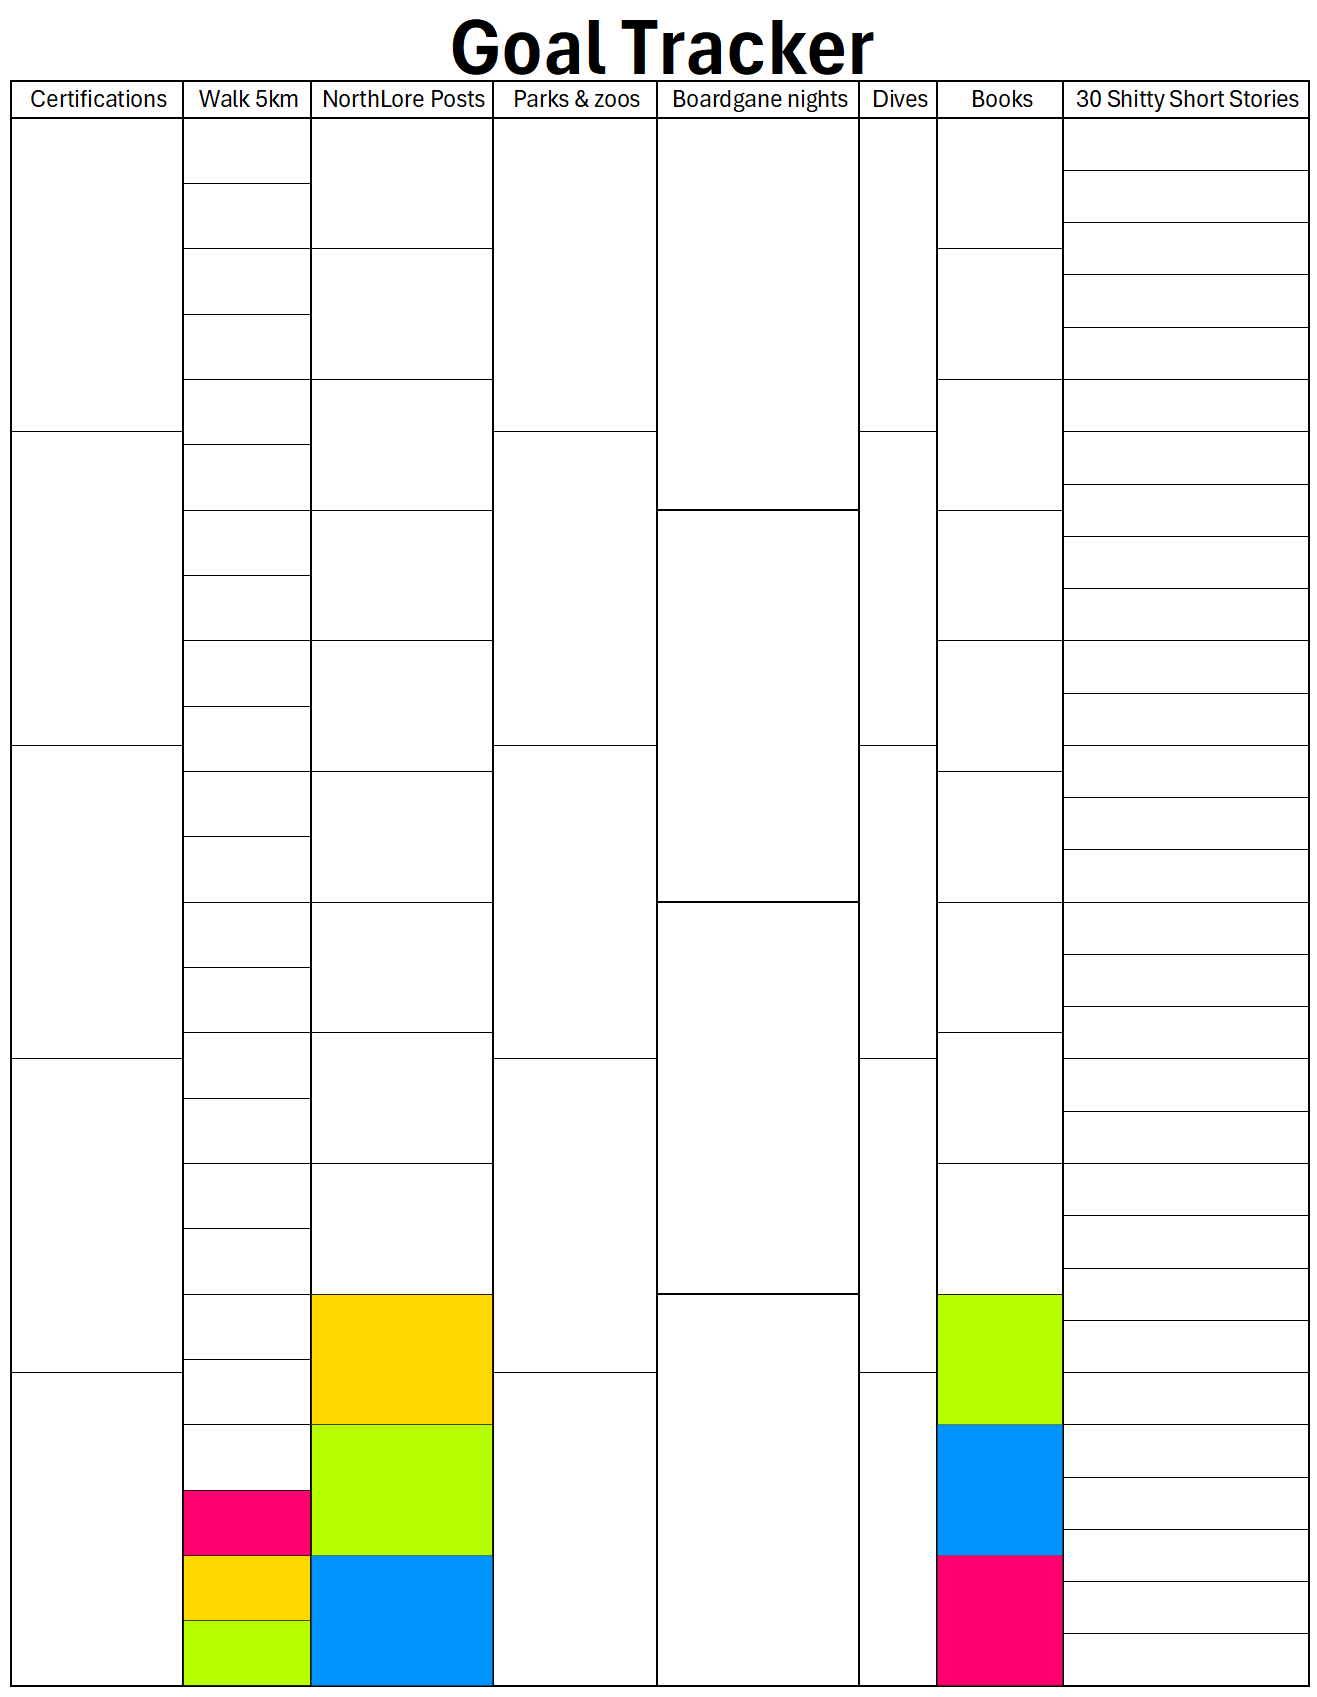
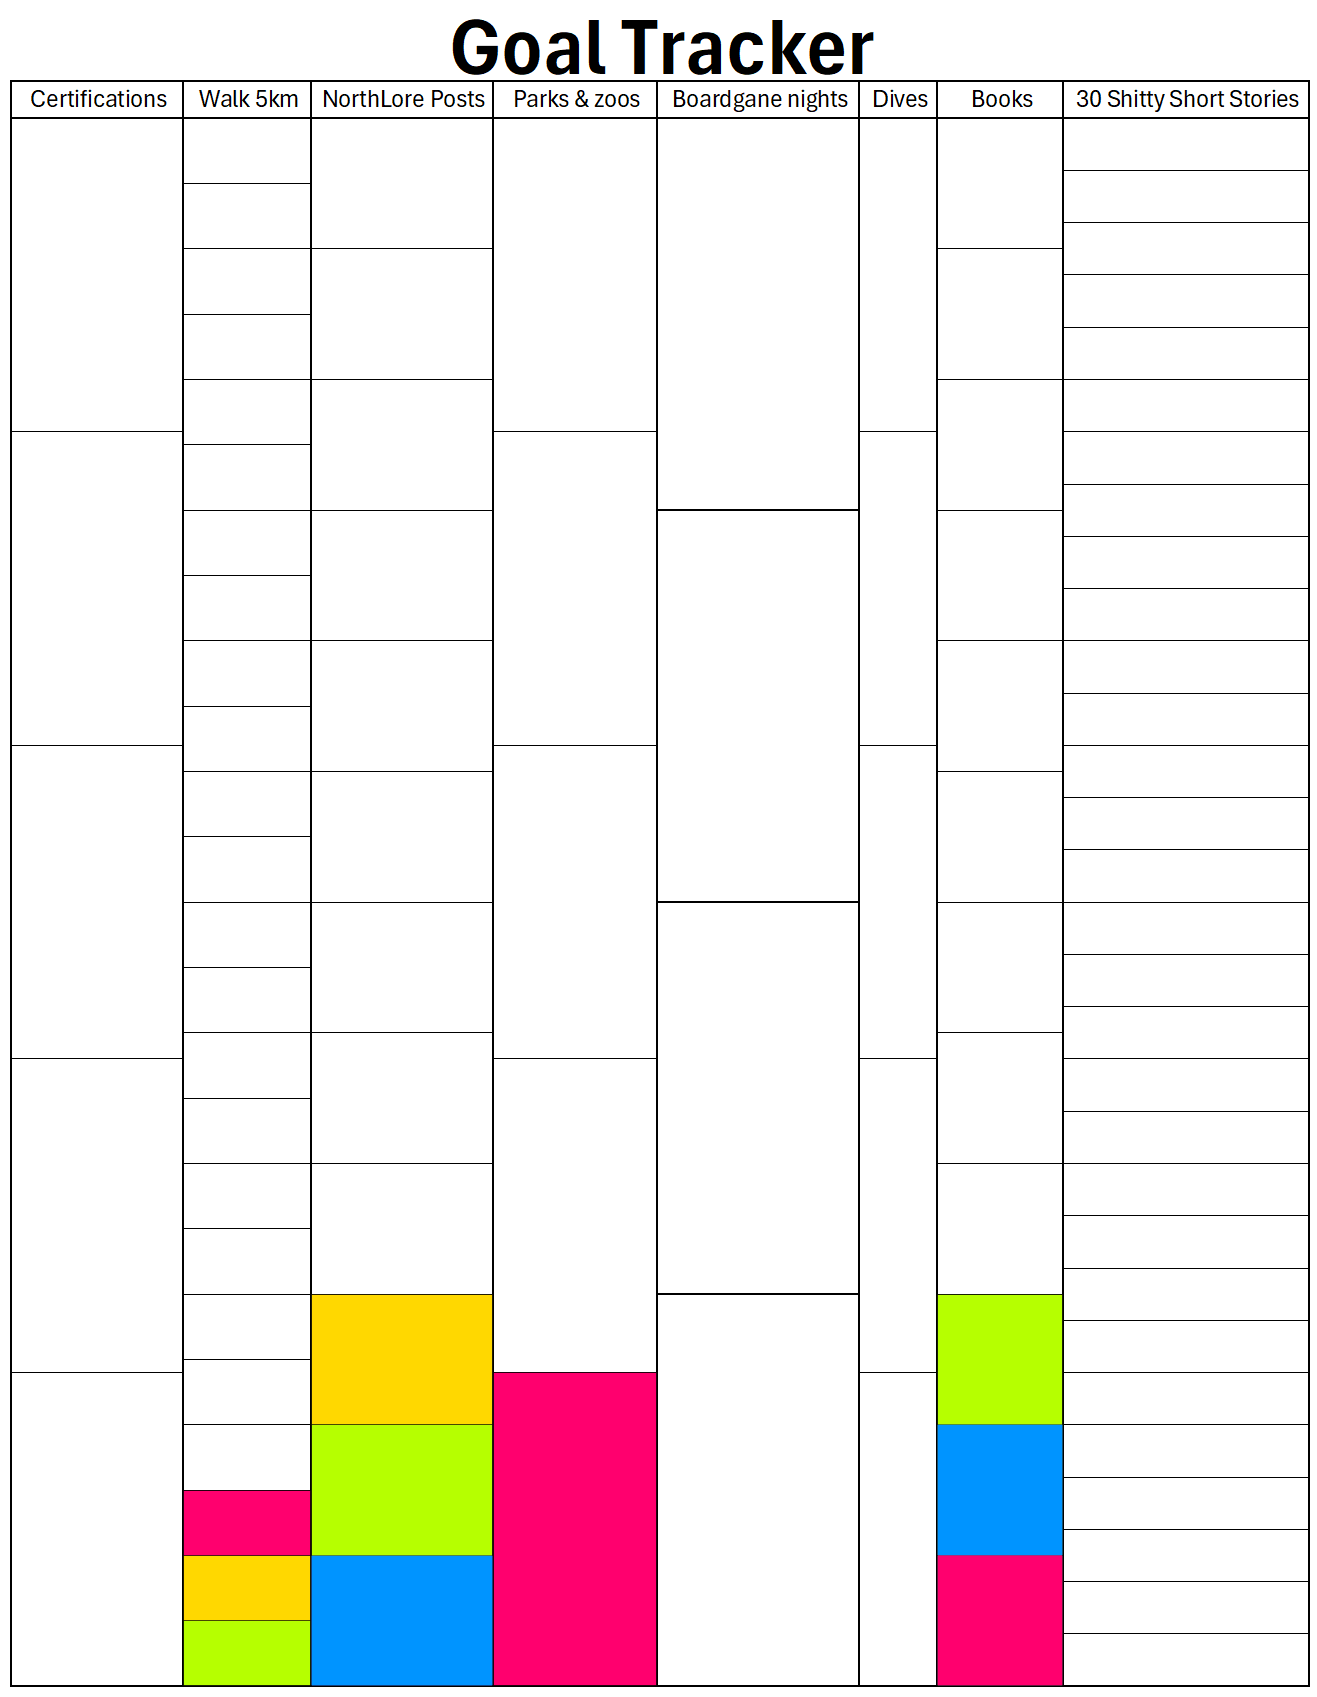
Updated Bingo

Changed region(s): [[0.3736, 0.7808, 0.4981, 0.9994]]

diff --git a/src/posts/the_forge/2026Bingo.md b/src/posts/the_forge/2026Bingo.md
@@ -66,8 +66,9 @@ Good luck, and have fun!
 ## TLDR; Milestones reached
 | Date  | Goal | Note |
 | ----- | ---- | ---- |
-| 03/04 | NorthLore Posts | Scoundrel |
+| 10/04 | NorthLore Posts | Scoundrel |
 | 23/03 | NorthLore Posts | Daily Walk: 30 Day Challenge |
+| 14/03 | Parks & Zoos | Nordsøen Oceanarium |
 | 01/03 | 5K Walks | St. Økssø, 2 rounds |
 | 26/02 | Read Books | Ternet Ninja 1 |
 | 21/02 | 5K Walks | Saturday walk |
